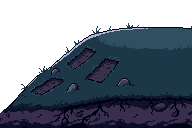
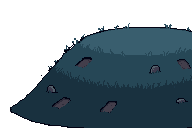
Graveyard hill v2: grassy mound with no soil cross-section or rim light; sw v376

diff --git a/sw.js b/sw.js
@@ -15,7 +15,7 @@
  * edited CSS/JS) so returning users pick up the update instead of serving a
  * stale cached shell forever — the whole point of a version string here.
  */
-const CACHE_NAME = 'deadline-shell-v375';
+const CACHE_NAME = 'deadline-shell-v376';
 
 const APP_SHELL = [
     './',

diff --git a/docs/ART_STYLE.md b/docs/ART_STYLE.md
@@ -84,6 +84,7 @@ MEMORIAL only, so these tier headstones are no longer planned: see "Achievement 
 zombie, ~26px, slight tilt). All at the moon/church pixel scale; every new shell asset goes in `sw.js`
 `APP_SHELL` with a `CACHE_NAME` bump.
 
+**Graveyard hill v2 (2026-11-14, Jeremy generated, Claude cleaned):** the v1 mound (described below) read as a cross-section (soil + roots under the grass, lavender rim on top). v2 = PixelLab Create, canvas 192x128, init `_source/graveyard_hill_guide_v2_192x128_whitebg.png` (same silhouette, no soil band, no rim), ref 2 = the new path, Palette NONE, Remove background ON, prompt = the v1 prompt with `seen from a slightly raised angle`, grass `from the crest all the way down to the bottom edge`, `the flat top and upper slope a shade lighter`, and `no soil layers, no roots, no cross-section, no cliff, no rim light, no glow` (full text in the 2026-11-14 session). Cleanup in code: the strip of path dirt PixelLab drew under the left foot (x~10-70, up to 13 rows) was made transparent from the bottom up so the real floor shows (grave patches use similar purples, so only dirt connected to the bottom edge was cleared). Same 192x128 size and flat top 101px up (top rows 27), so CSS / CONFIG are unchanged; its left foot now reaches x~10 (v1 ~40), still behind the zombies. Original `_source/graveyard-hill_v2_pixellab_original.png`; v1 kept as `_source/graveyard-hill_v1.png`.
 **Graveyard hill art (BUILT 2026-11-08, Claude app session; PixelLab Pro creator, Jeremy generated, Claude cropped/checked/wired).** `Assets/scene/graveyard-hill.png`, **192x128, drawn 1:1**, pinned bottom-right of `#gameCanvas` (`.graveyard-hill`, css/graveyard.css). The ZONE (tap area, zombie-field edge) stays `CONFIG.GRAVEYARD_HILL_WIDTH_PX` 140; the art is 52px wider so its low left slope runs out over the ground band BEHIND the zombies (zone z 6 < zombies 30+). The top 23 rows are transparent: the flat top is `CONFIG.GRAVEYARD_HILL_HEIGHT_PX` **101** above the canvas bottom (hill-h was 70; `GraveyardView.hillHeight` now returns the config value, so the placeholder tree stands on the crest). Dark teal-blue grass (the floor tile's grass colour, so it belongs to the scene but stands apart from the purple field and draws the eye to the interactive Memorial/stones), thin lavender moonlit rim, a few sunken grave slabs + half-buried stones painted on the slope, dark soil + roots along the bottom. Mound only: NO path/ground strip in the art (the real ground layer stays continuous under it). 21 colours. The placeholder stones' back-lane feet (64px) still sit on the slope (surface is 63px at the zone's left edge, ~100px from x~80).
 **Regenerate recipe (PixelLab Pro, Creator):** init/guide = `Assets/scene/_source/graveyard_mound_guide_192x128_whitebg.png` (medium strength), style reference = `Assets/scene/floor-tile.png`, **Palette: NONE** (the creator auto-selected the old CLOUD palette and every result came out flat grey; the same three cloud colours showed up twice), Remove background ON. Prompt: `pixel art graveyard burial mound at night, side view, a single rounded grassy hill on a plain white background, rising gently from the lower left to a wide flat top in the upper third of the frame and continuing off the right edge, dark teal-blue grass covering the top and slope with small spiky tufts up to 6px along the crest, thin pale lavender moonlit rim along the top edge only, moonlit from the upper right, a few sunken grave-shaped dirt patches and small half-buried stones on the slope, dark violet soil and roots showing along the bottom edge of the mound, colours match the grass in the style image, wide flat empty patch on the top, no path, no ground strip, no tombstones, no trees, no fence, no buildings, no text, no anti-aliasing`. Earlier attempts and guides are in `Assets/scene/_source/graveyard_hill_*` / `graveyard_mound_guide_*`; the picked original is `graveyard-hill_pixellab_original.png`. Lessons: a 256x256 canvas gave a hill that buried the lane (keep 192x128); light grey-lavender mound read as a pasted slab (value must sit at the field/floor value, with only a moonlit rim).
 **Memorial obelisk T1-T5 (ART DONE 2026-11-08, Claude app session; PixelLab Pro, Jeremy generated, Claude trimmed/aligned; WIRED 2026-11-08, sw v283).** `Assets/Village/memorial_t1.png` .. `memorial_t5.png`, **128x192 canvas, drawn 1:1**, every stage bottom-aligned (plinth bottom row 181; T1's rubble spills to row 188), obelisk ~132px tall (none taller than T3), widest T5 ~97px (cols 16-112). Pale granite (the material reserved for the Memorial), NO flags (survivor-camp rule). **Placement (Jeremy, "fine for now"):** on the hill's flat top, feet **86px** above the canvas bottom (the hill rim is 101: the plinth sits ~14px down INTO the lighter teal top band so it stands on the hill, not on its edge), canvas column 64 at **~92px into the 140px zone**; drawn IN FRONT of the growing tree (tree trunk at the zone's right edge behind it; giant-stage canopy rule: lowest branches above the obelisk, total tree height <= ~140px above the hill top so it stays under the moon). **Moon budget:** the moon cluster sits right above the flat top; at 1280x720 (canvas 298 tall) the T3 tip reaches y~80 and just touches the moon's bottom edge (accepted); on the phone it clears easily. Do not make a stage taller. **Wired (2026-11-08):** `CONFIG.GRAVEYARD_MEMORIAL_*` (art 128x192, plinth row 181, feet 86, centre 92); the sprite is the background of a span inside ONE 72x132 tap box (z 20, in front of the tree), so its bottom edge sits 76px up (86 - the 10 transparent rows under the plinth); stage from `js/memorial.js`.
